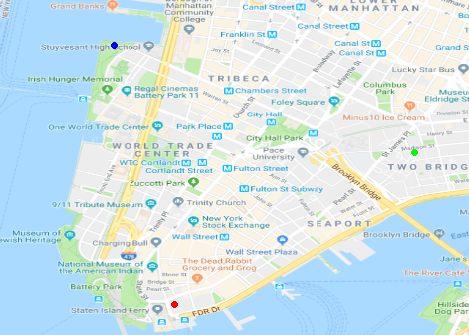
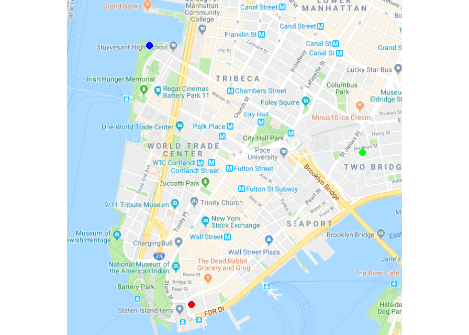
improved aspect ratio

diff --git a/rgooglemaps/pkg/README.md b/rgooglemaps/pkg/README.md
@@ -12,6 +12,7 @@ center = c(mean(lat), mean(lon));
 zoom <- min(MaxZoom(range(lat), range(lon)));
 bb=qbbox(lat,lon)
 
+par(pty="s")
 #OSM
 myMap=GetMap(center,zoom=15)
 PlotOnStaticMap(myMap,lat=lat,lon=lon,pch=20,col=c('red', 'blue', 'green'),cex=2)
